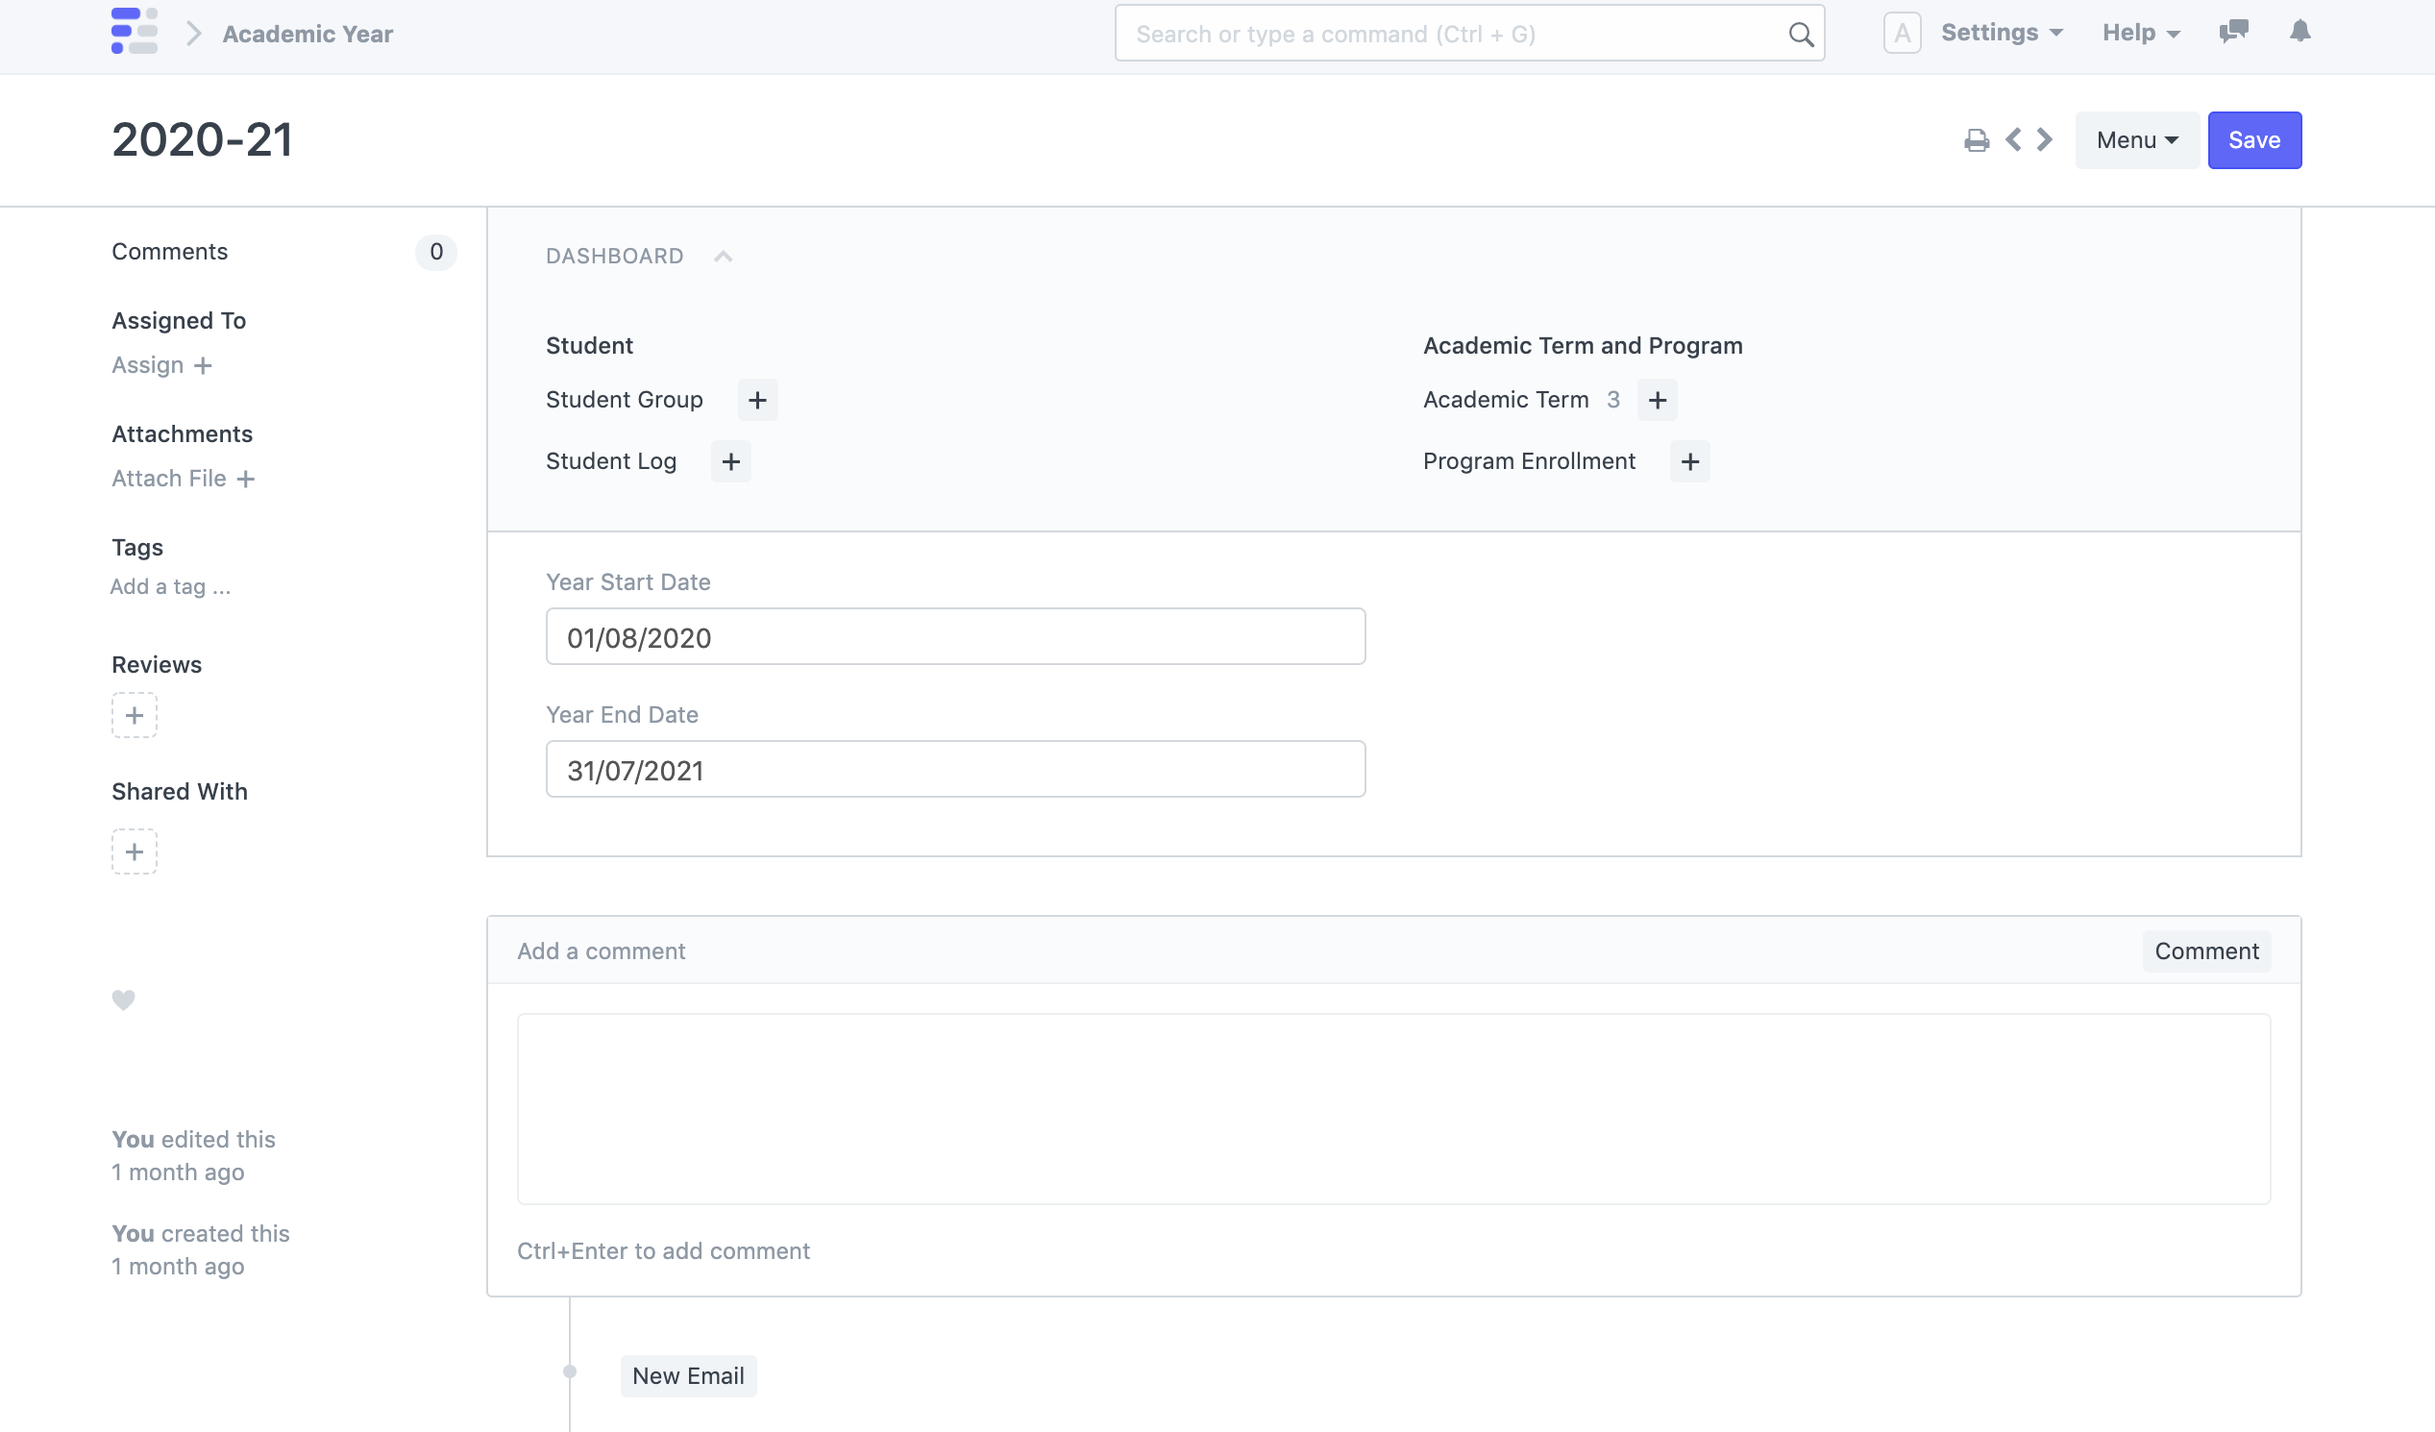
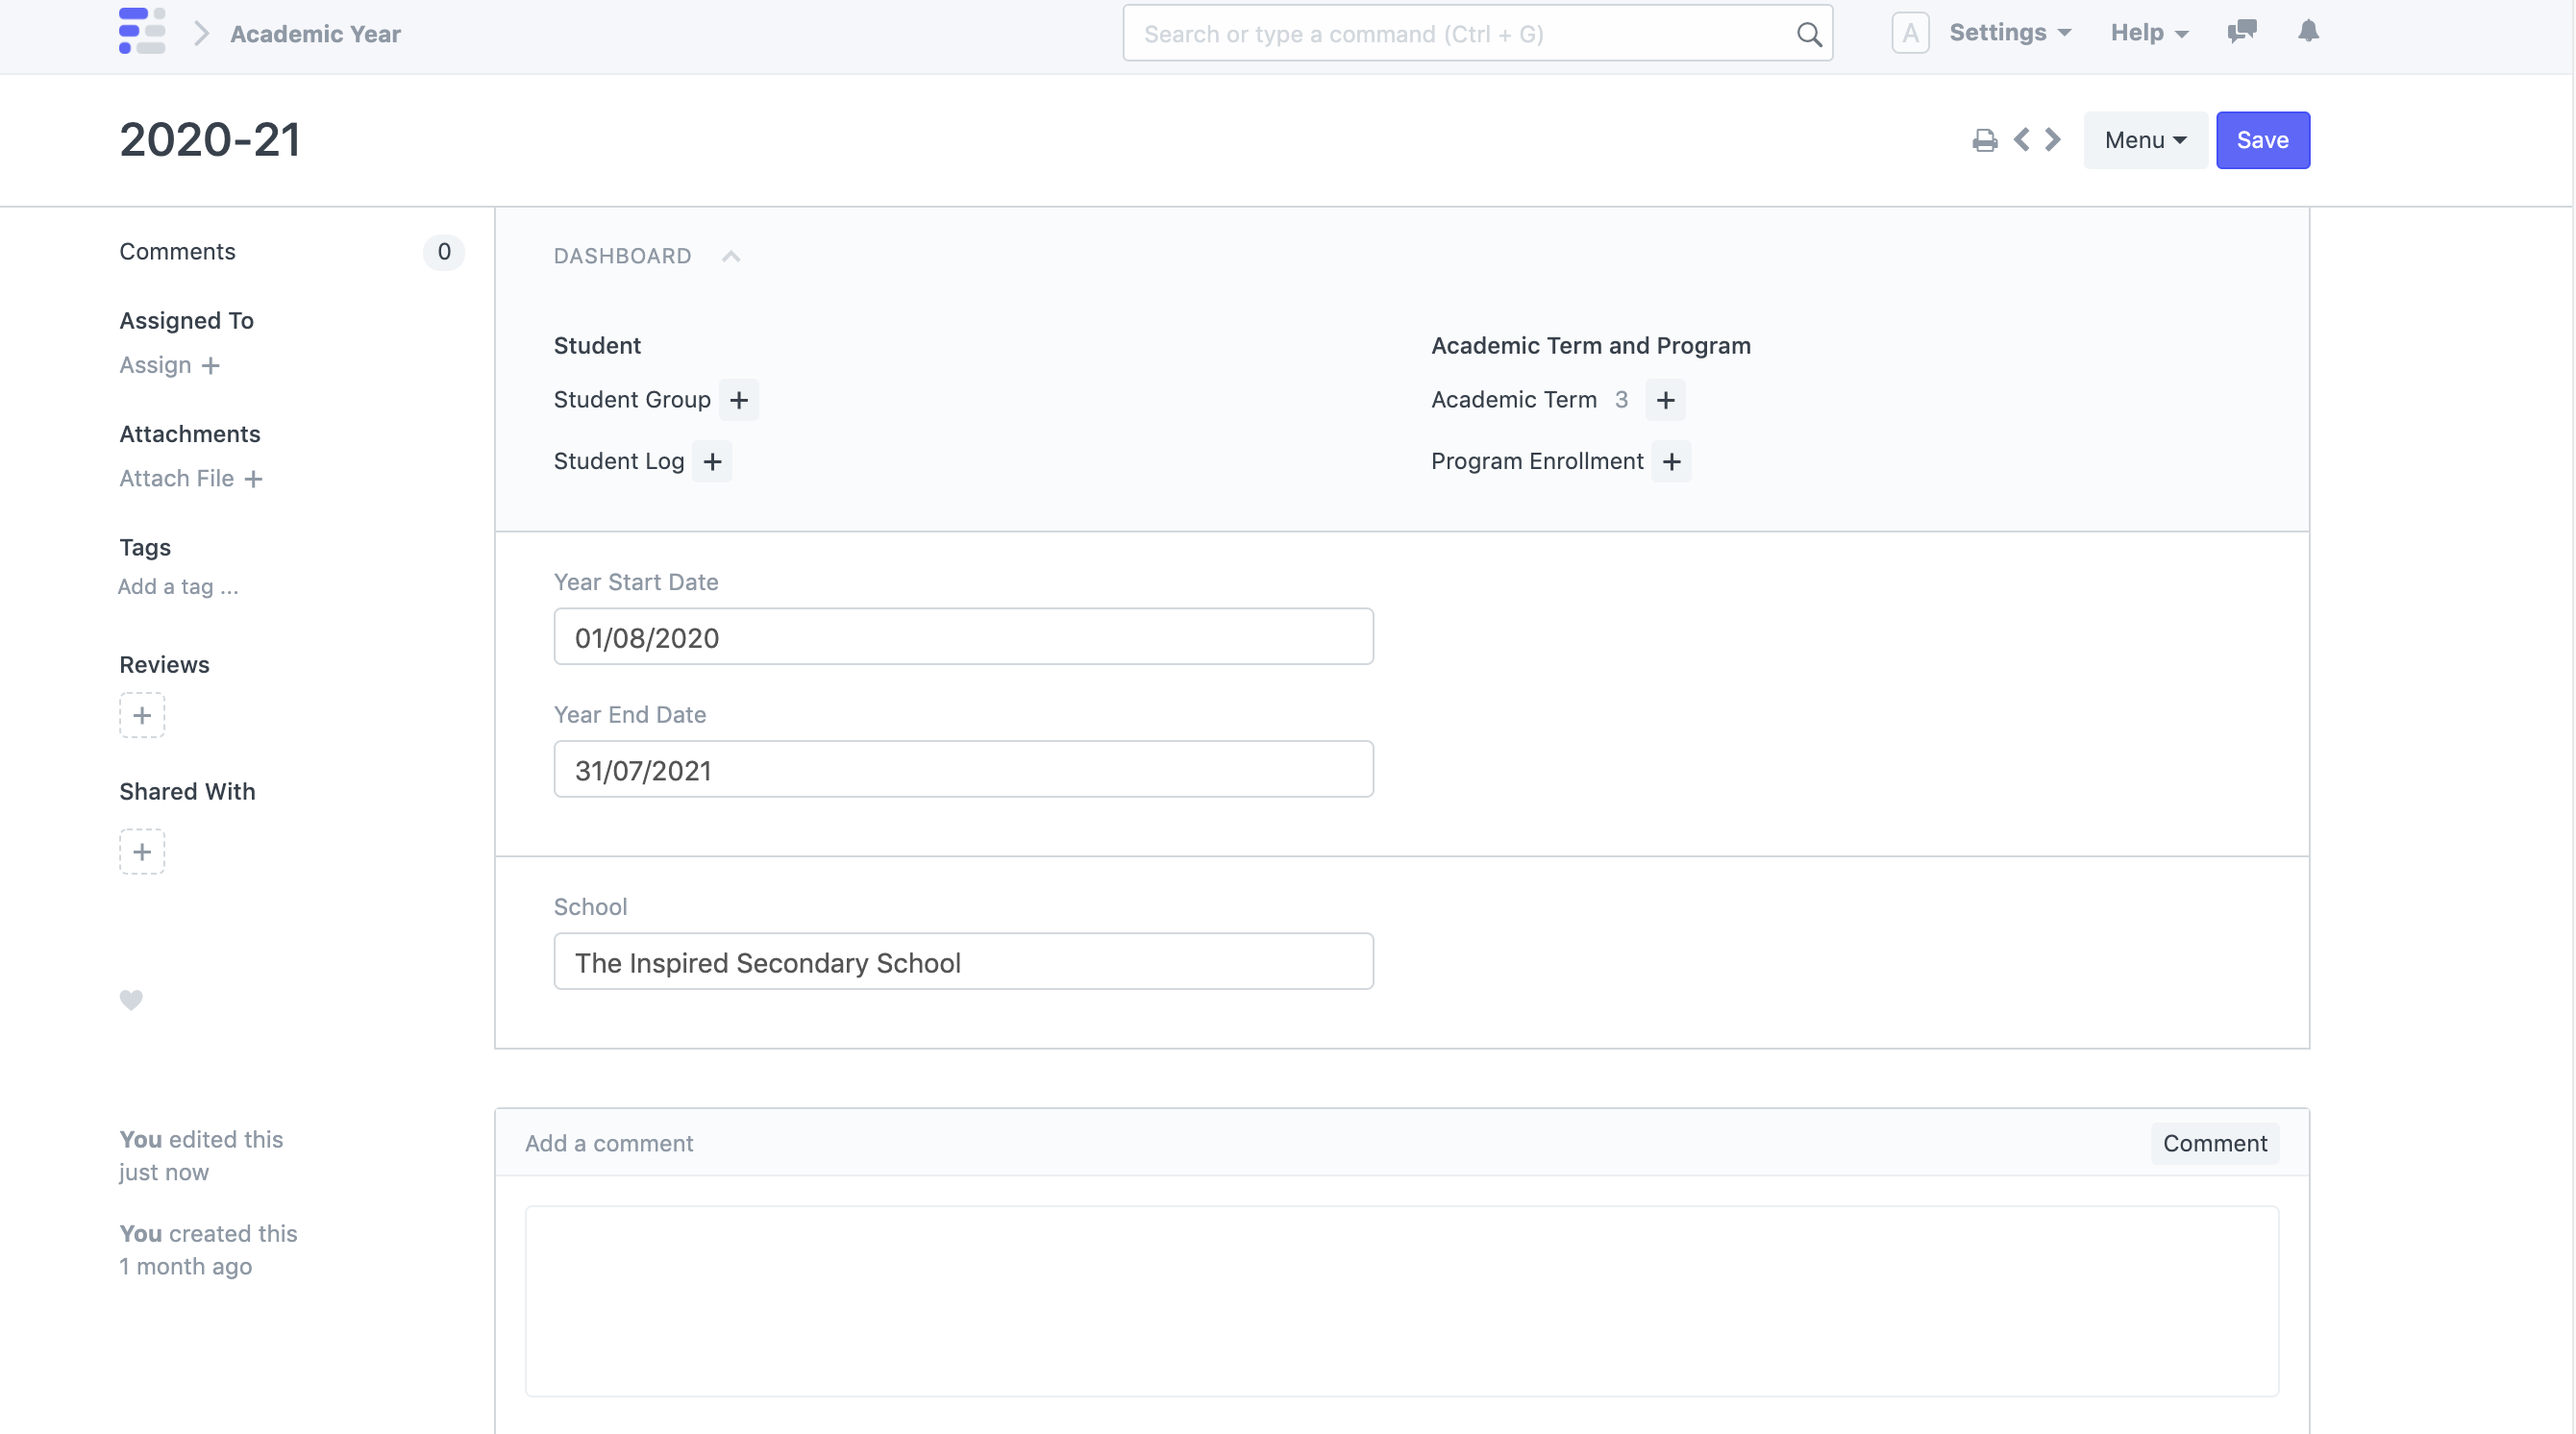
still working on academic year.

diff --git a/ifitwala_ed_documentation/www/docs/user/manual/en/education-settings/academic-year.md b/ifitwala_ed_documentation/www/docs/user/manual/en/education-settings/academic-year.md
@@ -1,13 +1,13 @@
 <!-- add-breadcrumbs -->
 # Academic Year
 
-** An academic year is a period of time that educational institutes uses to graduate students from one year to another.**
+**An academic year is a period of time that educational institutes uses to graduate students from one year to another.**
 
 To access the academic year, go to:
 
 > Home > School Settings > Academic Year
 
-An academic year comprises have several academic terms.  Although start and end of academic year are not mandatory fields, we do strongly encourage to set up dates for these 2 fields to ensure the integrity of your data.  Many validation rules in other documents are based on these dates.  
+An academic year comprises several academic terms.  Although start and end of academic year are not mandatory fields, we do strongly encourage to set up dates for these 2 fields to ensure the integrity of your data.  Many validation rules in other documents are based on these dates.  
 
 List View
  ![Academic Year List View](/docs/assets/img/school-settings/academic-year-listview.png)
@@ -17,22 +17,27 @@ Document View
 
 If you set up the *current academic year* in the [education settings](/docs/user/manual/en/education-settings/education-settings) document, this will become the default academic year in new documents that are calling for that field.
 
-## 1. Fields to configure the Academic Year.  
+## 1. Fields to fill in the Academic Year  
 
- ![Academic Year Fields](/docs/assets/img/school-settings/academic-year-fields.png)
+![Academic Year Fields in standard view](/docs/assets/img/school-settings/academic-year-fields.png)
+
+Or in quick view. 
+![Academic Year Fields in quick view](/docs/assets/img/school-settings/academic-year-fields-2.png)
 
 * *Academic Year Name*: How you want to call your academic year. You would choose something like 2020-2021, or 2020 (if in Southern Hemisphere countries)
 * *Year Start Date*: the first day of your academic year.
 * *Year End Date*: the last day of your academic year.
+* *School*: Your school can have several sections such as Kindergarten, Primary Schools and Secondary Schools. The Academic year of each of these sections might not totally aligned.  
 
 ## 2. Documents linked to Academic Year
 
+* [Academic Term](/docs/user/manual/en/education-settings/academic-term)
 * [Education Settings](/docs/user/manual/en/education-settings/education-settings)
 * [Program Enrollment](/docs/user/manual/en/schedule/program-enrollment)
 * [Student Log](/docs/user/manual/en/student/student-log)
 
 ## 3. Validation rules
-These are some validation rules we have put in place to ensure the integrity of the data.
+Here are some of the validation rules we have put in place to ensure the integrity of the data.
 
 * unique name for academic year
 * the start of the academic year cannot be after the end of the academic year (or vice-versa)

diff --git a/ifitwala_ed_documentation/www/docs/user/manual/en/education-settings/academic-term.md b/ifitwala_ed_documentation/www/docs/user/manual/en/education-settings/academic-term.md
@@ -1,0 +1,8 @@
+<!-- add-breadcrumbs -->
+# Academic Term
+
+
+
+
+
+{next}
